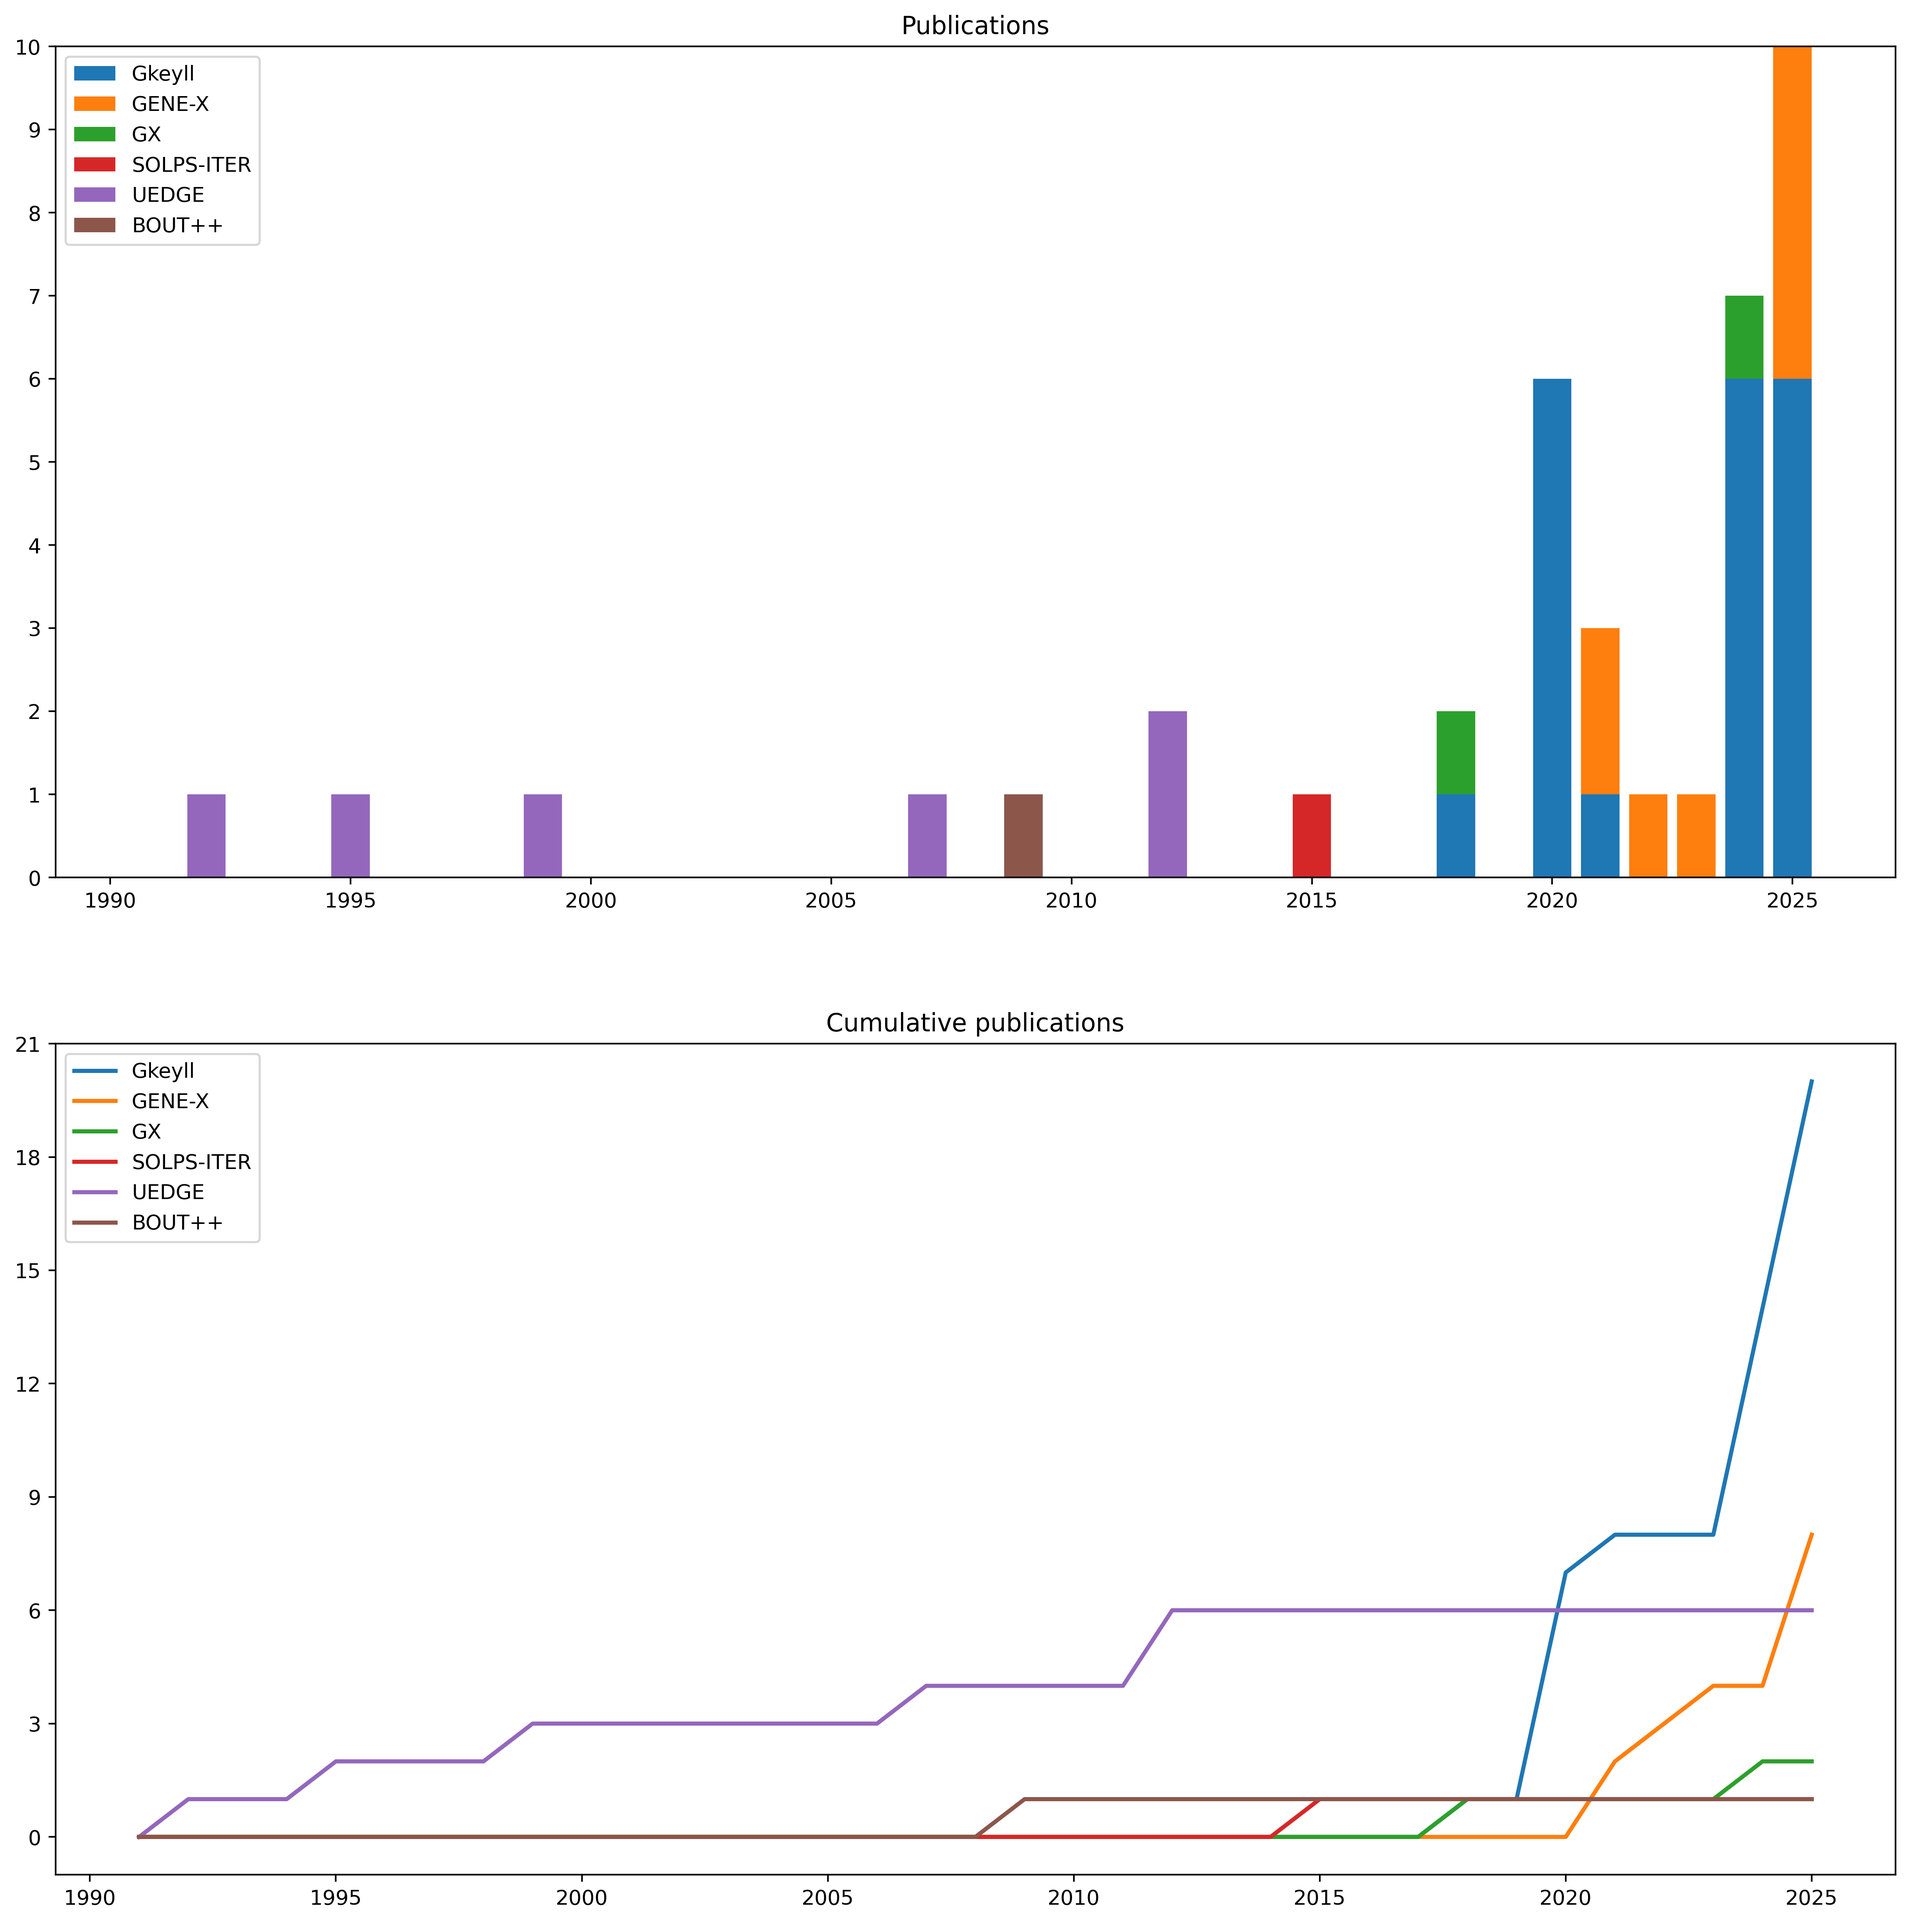
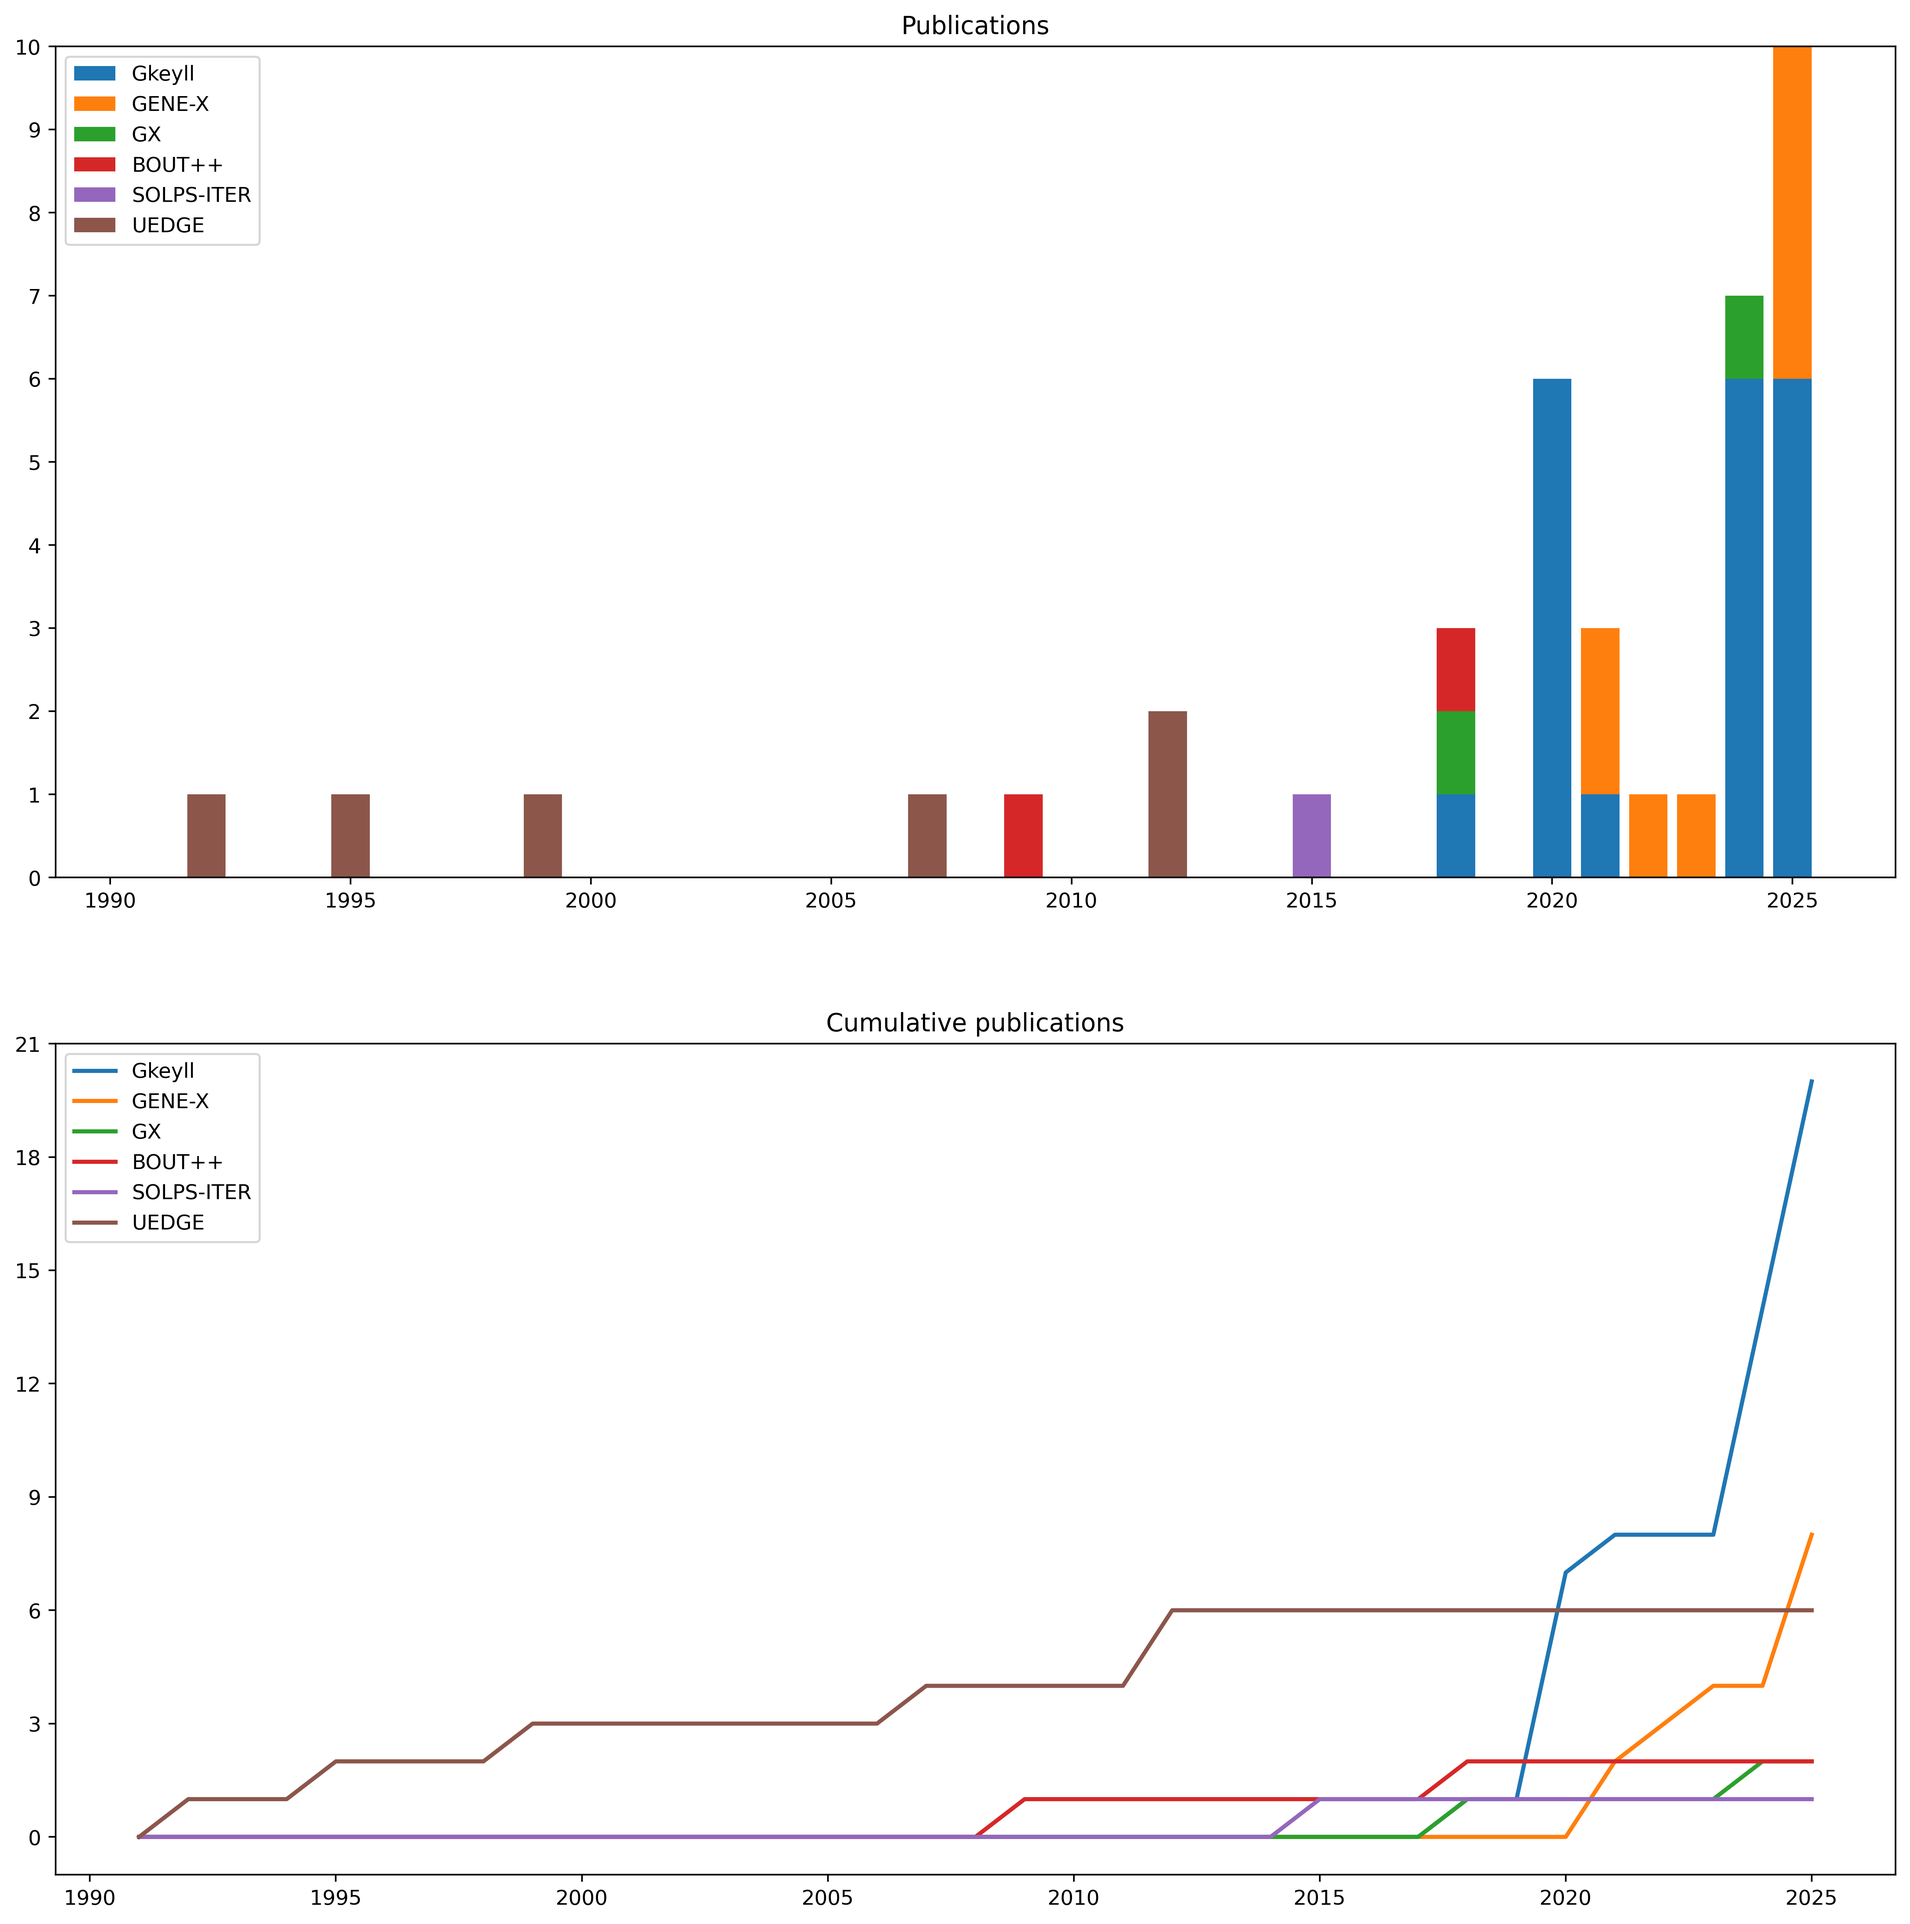
feat: add "10.1016/j.cpc.2018.03.003"

diff --git a/README.md b/README.md
@@ -33,6 +33,7 @@
 - Electromagnetic full-*f* gyrokinetics in the tokamak edge with discontinuous Galerkin methods. Mandell at el. (2020) [10.1017/S0022377820000070](https://doi.org/10.1017/S0022377820000070)
 - Exact and locally implicit source term solvers for multifluid-Maxwell systems. Wang at el. (2020) [10.1016/j.jcp.2020.109510](https://doi.org/10.1016/j.jcp.2020.109510)
 - Discontinuous Galerkin algorithms for fully kinetic plasmas. Juno at el. (2018) [10.1016/j.jcp.2017.10.009](https://doi.org/10.1016/j.jcp.2017.10.009)
+- Calculation of two-dimension radial electric field in boundary plasmas by using BOUT++. Li at el. (2018) [10.1016/j.cpc.2018.03.003](https://doi.org/10.1016/j.cpc.2018.03.003)
 - Laguerre-Hermite pseudo-spectral velocity formulation of gyrokinetics. Mandell at el. (2018) [10.1017/S0022377818000041](https://doi.org/10.1017/S0022377818000041)
 - The new SOLPS-ITER code package. Wiesen at el. (2015) [10.1016/j.jnucmat.2014.10.012](https://doi.org/10.1016/j.jnucmat.2014.10.012)
 - Coupled core-edge simulations of H-mode buildup using the Fusion Application for Core-Edge Transport Simulations (FACETS) code . Hakim at el. (2012) [10.1063/1.3693148](https://doi.org/10.1063/1.3693148)
